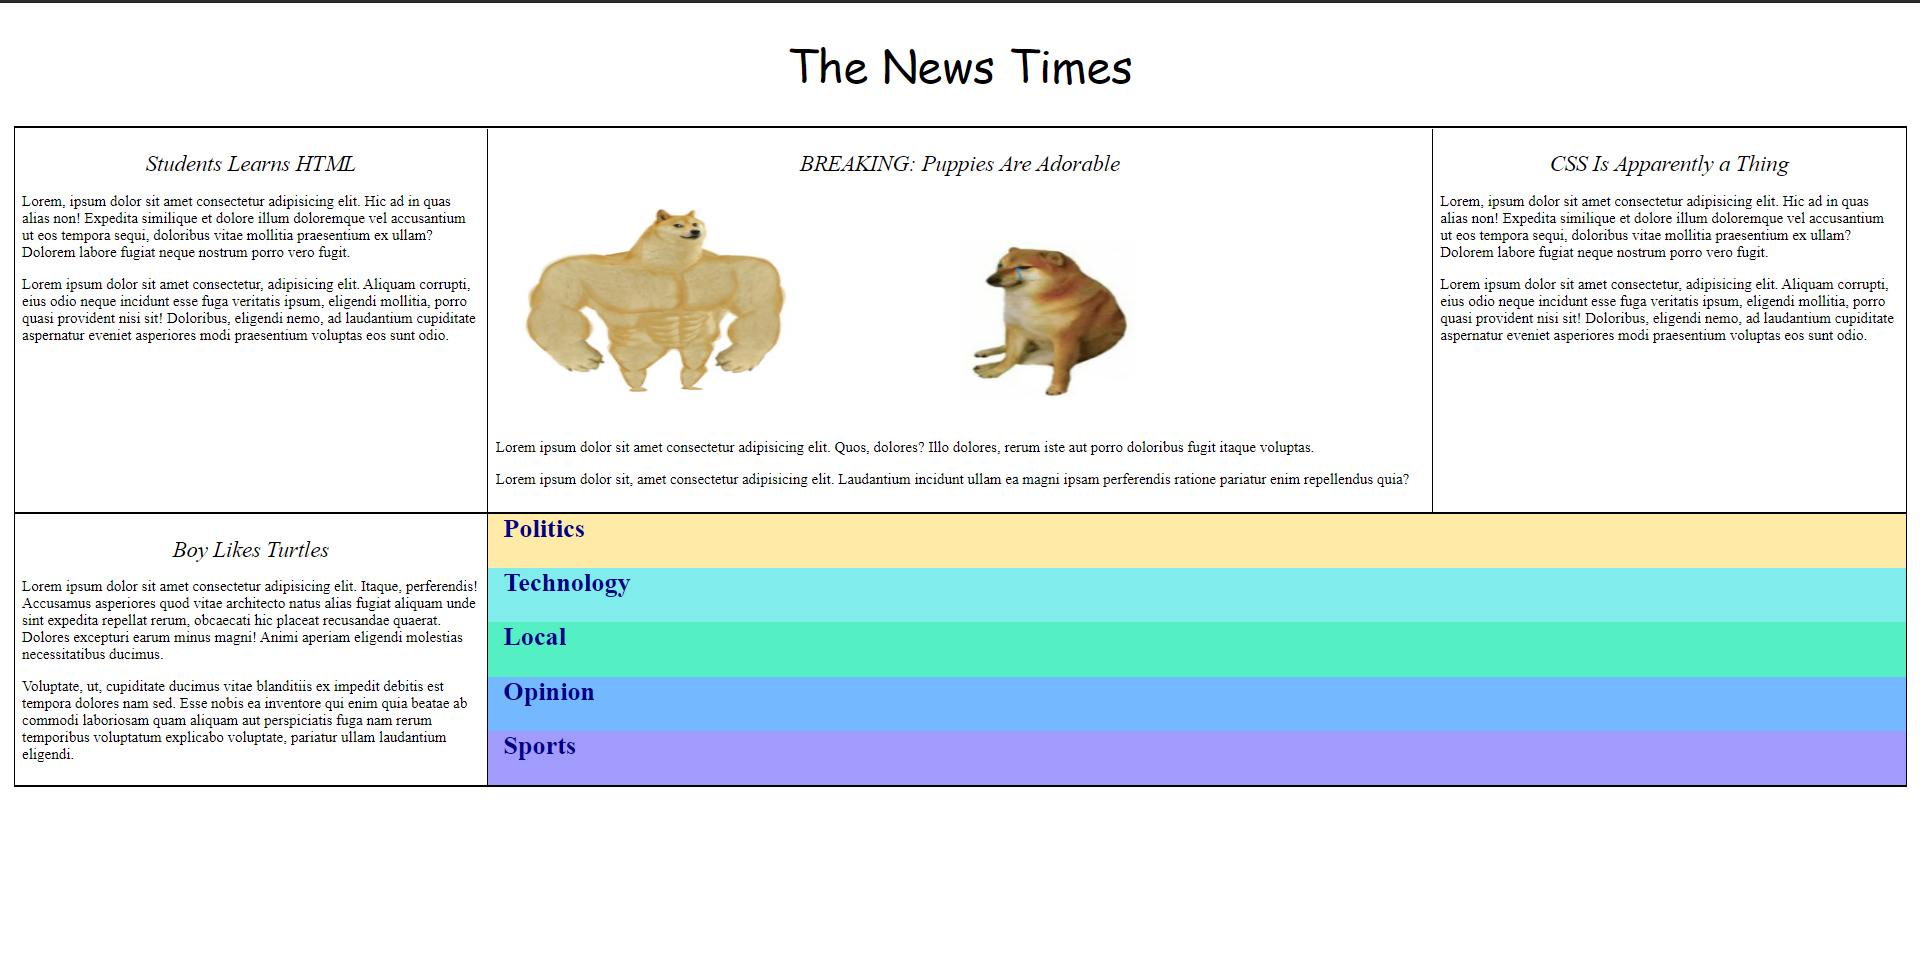
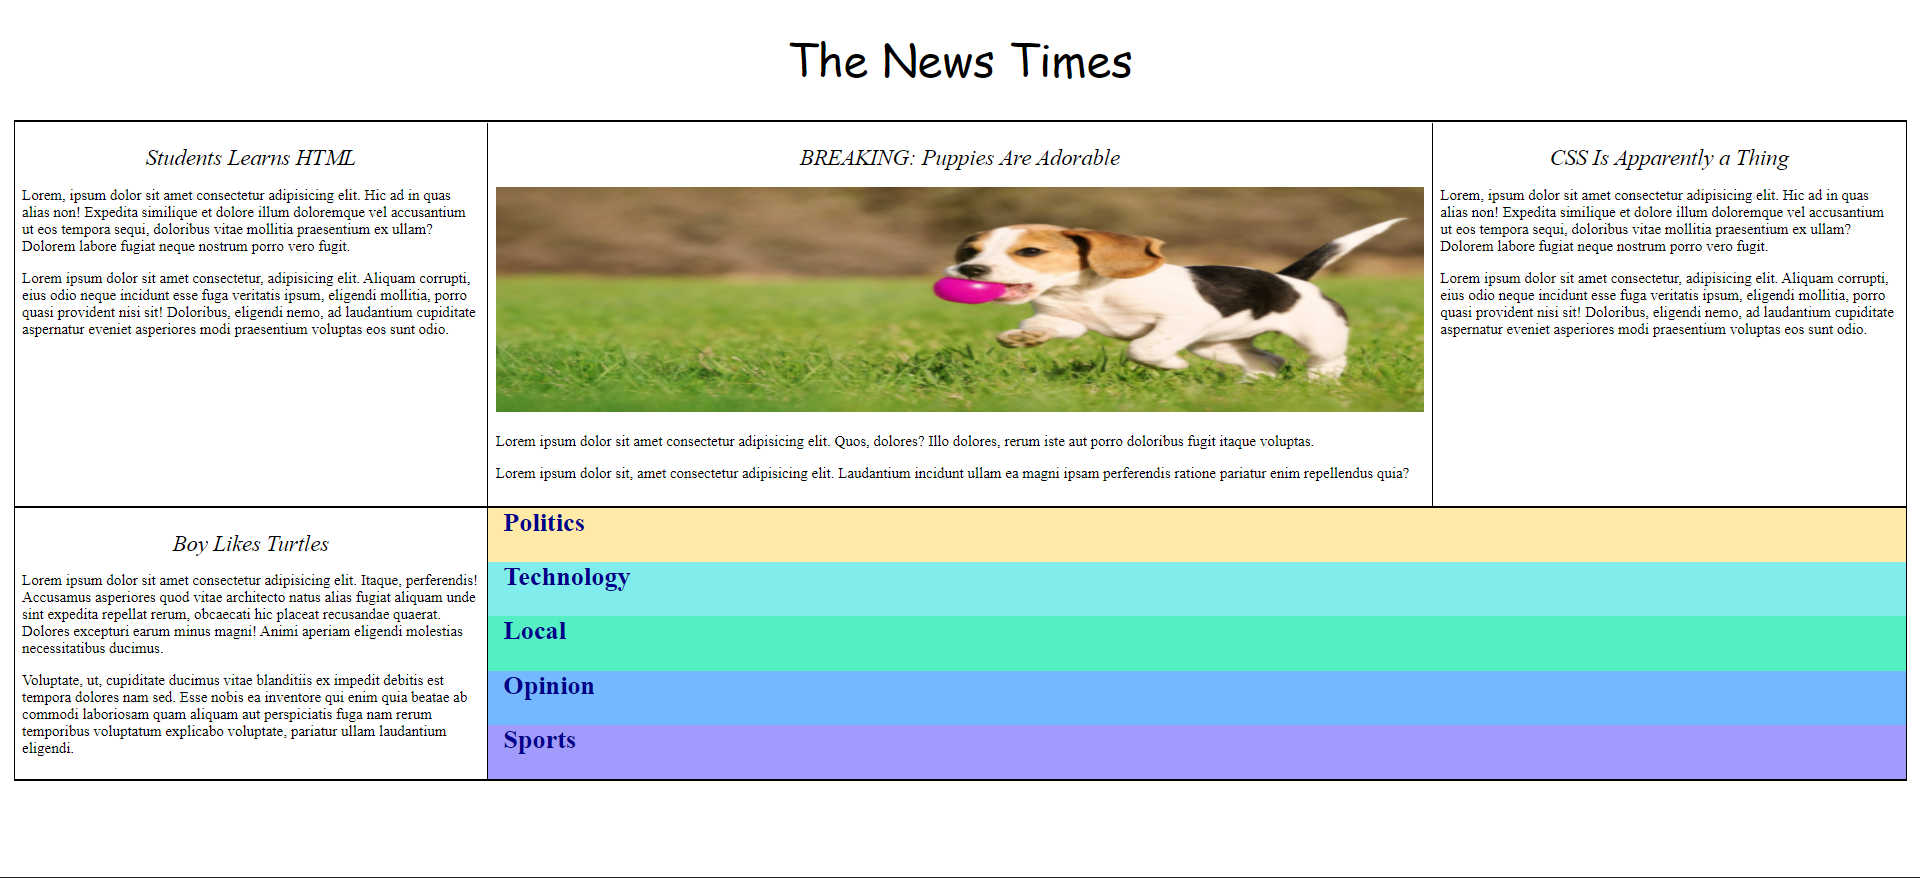
Dosya ismi değiştirildi

diff --git a/index.html b/index.html
@@ -15,7 +15,7 @@
 		</div>
 		<div class = "sutun ikinci-sutun">
 			<h1 class = "alt-baslik">BREAKING: Puppies Are Adorable<h1>
-			<img src = "https://www.meme-arsenal.com/memes/cbb4e6a5e6e1c2ee86085f52fcb4910d.jpg" alt ="kopek fotosu" width = "1200" height = "300"></img>
+			<img src = "https://cdn.royalcanin-weshare-online.io/UCImMmgBaxEApS7LuQnZ/v2/eukanuba-market-image-puppy-beagle?w=5596&h=2317&rect=574,77,1850,1045&auto=compress,enhance" alt ="yavru köpek" width = "1238" height = "300"></img>
 			<p>Lorem ipsum dolor sit amet consectetur adipisicing elit. Quos, dolores? Illo dolores, rerum iste aut porro doloribus fugit itaque voluptas.</p>
 			<p>Lorem ipsum dolor sit, amet consectetur adipisicing elit. Laudantium incidunt ullam ea magni ipsam perferendis ratione pariatur enim repellendus quia?</p>
 		</div>
